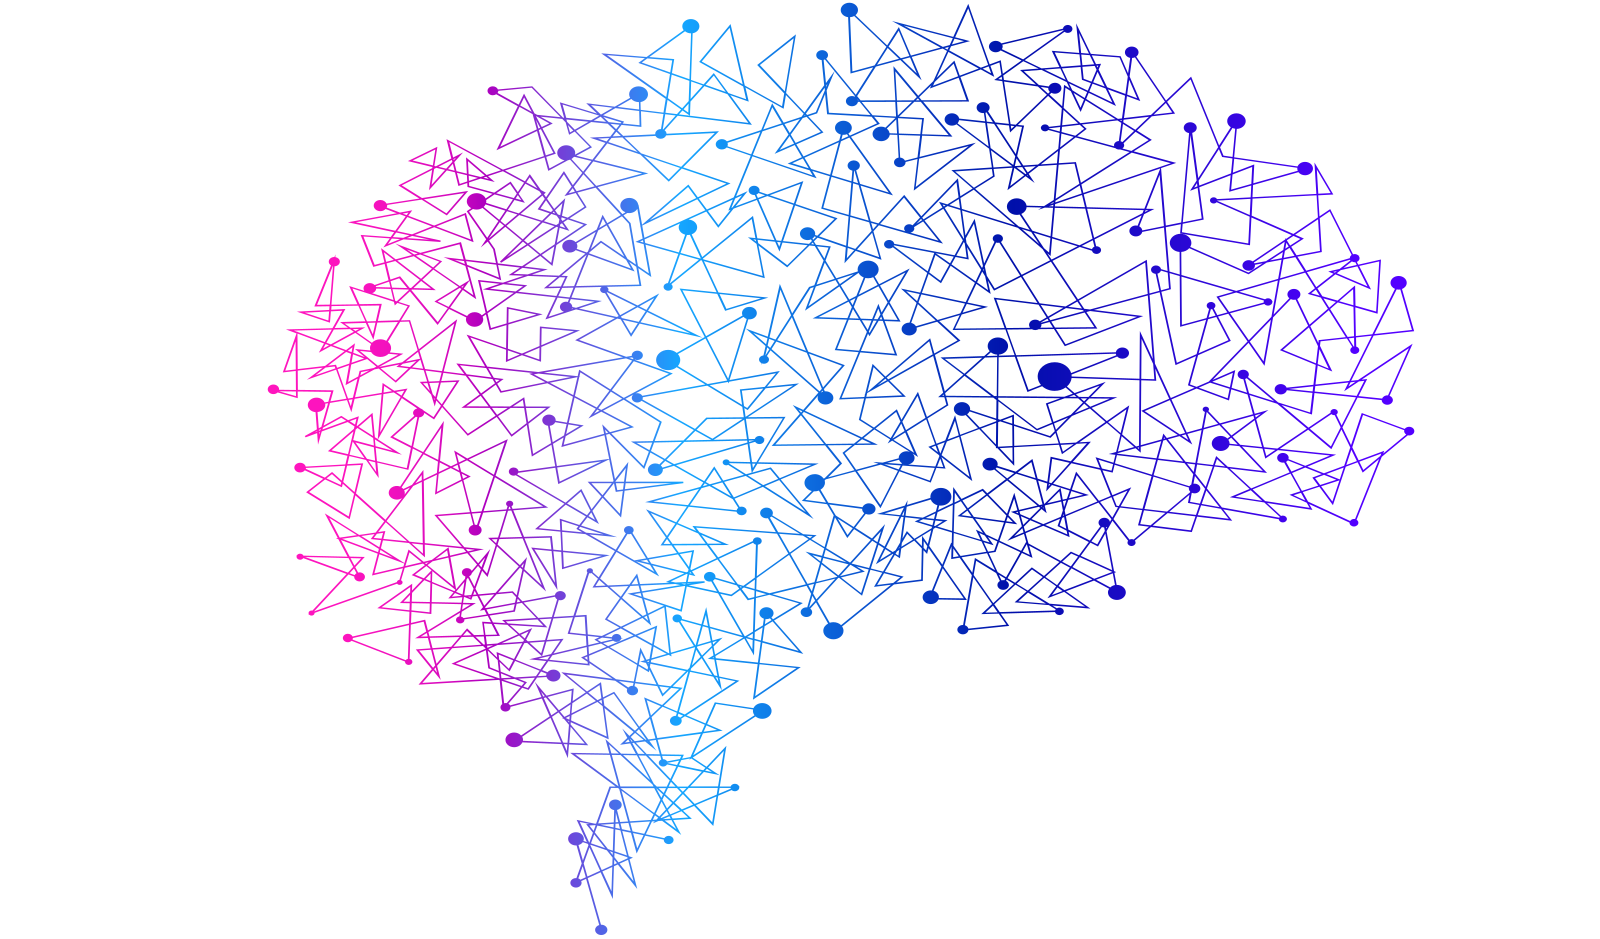
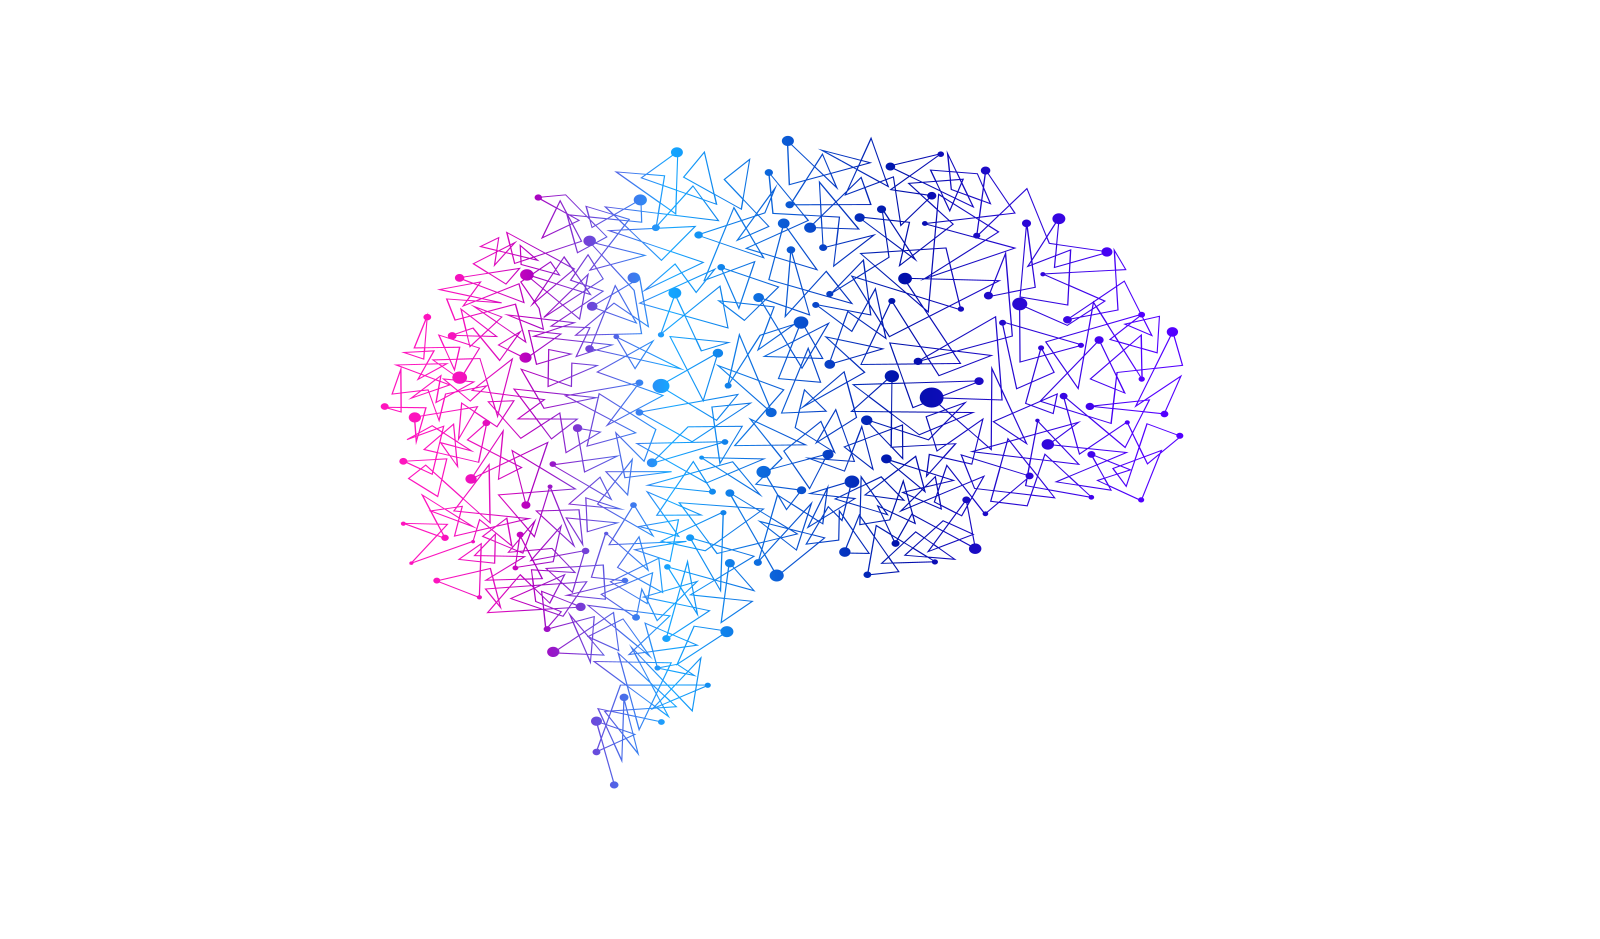
chore: updated hero
resized hero image, changed dark mode accent

Changed region(s): [[0.1562, 0.0, 0.875, 0.9574]]

diff --git a/tailwind.config.js b/tailwind.config.js
@@ -12,6 +12,7 @@ export default {
         accent: 'var(--aw-color-accent)',
         default: 'var(--aw-color-text-default)',
         muted: 'var(--aw-color-text-muted)',
+        'accent-dark': '#CEC5F9',
       },
       fontFamily: {
         sans: ['var(--aw-font-sans, ui-sans-serif)', ...defaultTheme.fontFamily.sans],
